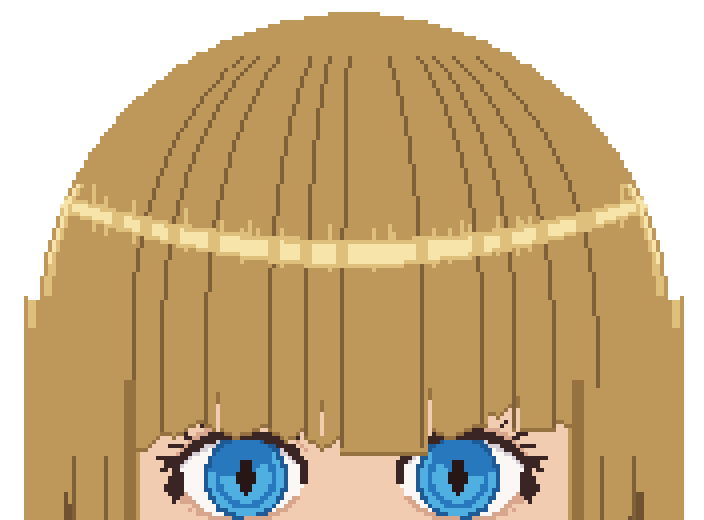
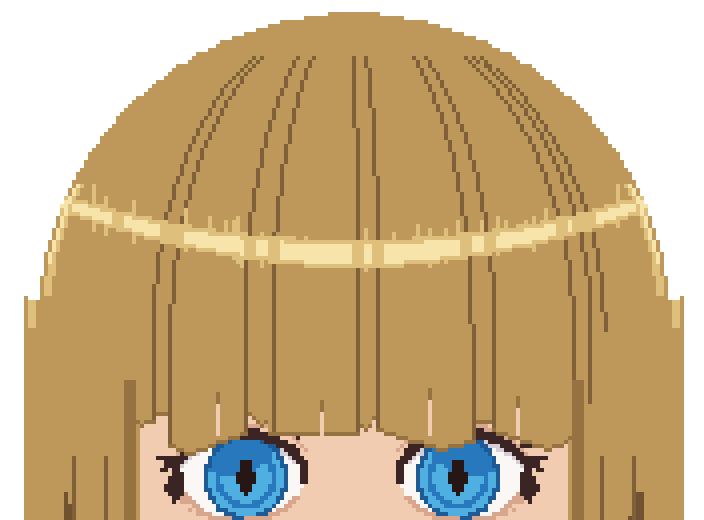
droom 臉模 v2：瀏海大塊小塊交錯（大 14～19° 長、小 4～7° 短，大致一大一小、偶爾兩小連著）
Claude-Session: https://claude.ai/code/session_01FDQv7ddy7JMjePn6AqJ3VJ

Changed region(s): [[0.1875, 0.0923, 0.875, 0.8923], [0.875, 0.3385, 0.9062, 0.4]]

diff --git a/web/droom/face_mold/v2/hair_one.py b/web/droom/face_mold/v2/hair_one.py
@@ -34,14 +34,17 @@ def regions():
   global MER
   import random
   rnd=random.Random(7 if HS!='bob' else 11)
-  MER=[];p=-56
-  while p<56:MER.append(p);p+=rnd.choice([7,8,9,10,12,13,15])
+  # 大塊、小塊交錯（使用者 2026-11-19）：大塊 14～19°、小塊 4～7°，大概一大一小、偶爾連兩個小的
+  MER=[];p=-56;big=rnd.random()<.5;SIZES=[]
+  while p<56:
+    MER.append(p);w=rnd.uniform(14,19) if big else rnd.uniform(4,7);SIZES.append(big);p+=w
+    big=(not big) if rnd.random()<.8 else big
   MER.append(56)
   tips={}
   for i in range(len(MER)-1):
     x0,x1=mer_x(MER[i],BANG_Y),mer_x(MER[i+1],BANG_Y)
-    L=rnd.choice([0,1,2,3,4,5,-1,-2]);L+=4 if rnd.random()<.15 else 0
-    pointed=rnd.random()<.65;lean=rnd.choice([-1,0,0,1])
+    L=(rnd.choice([2,3,4,5,6]) if SIZES[i] else rnd.choice([-1,0,1,2]));L+=3 if (SIZES[i] and rnd.random()<.2) else 0   # 大塊長、小塊短
+    pointed=rnd.random()<(.75 if SIZES[i] else .5);lean=rnd.choice([-1,0,0,1])
     for x in range(int(math.floor(x0)),int(math.ceil(x1))+1):
       u=(x+.5-x0)/max(1,x1-x0);u=min(1,max(0,u))
       drop=L+(3.5*(1-abs(2*u-1-lean*.4)) if pointed else 1.2)
